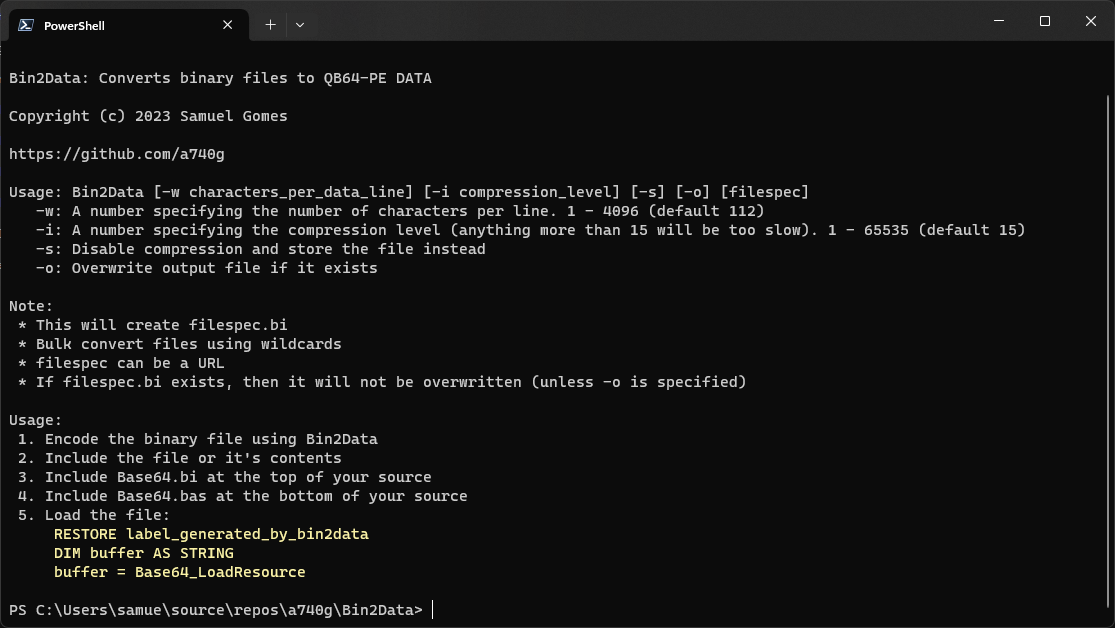
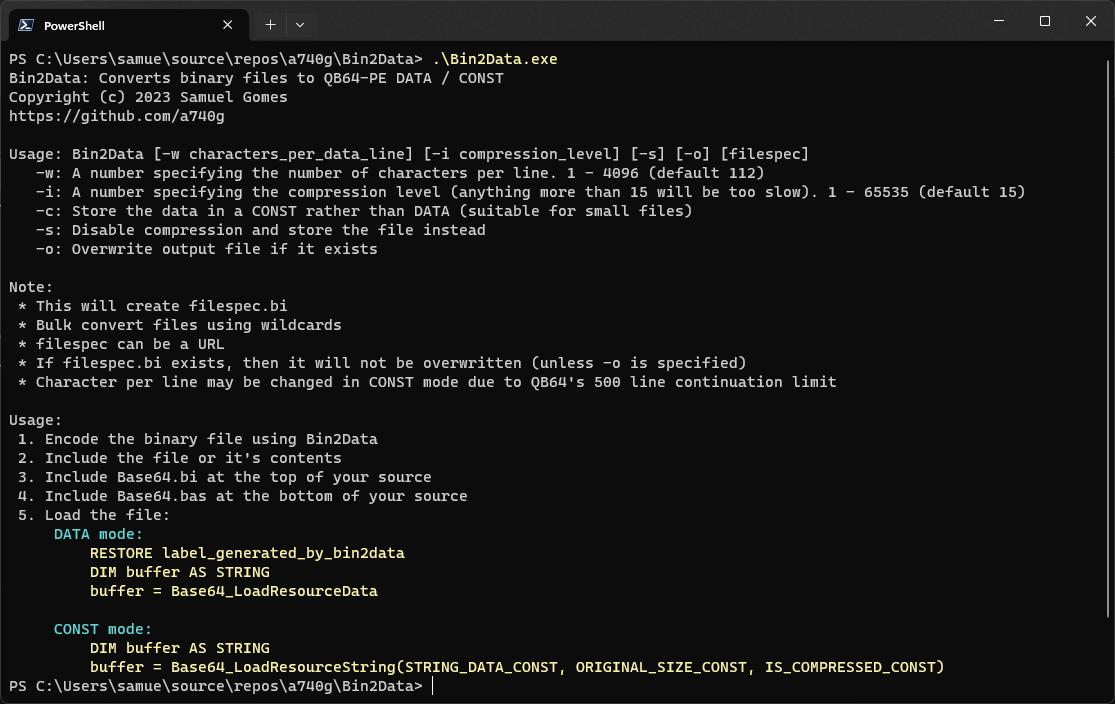
Add support for generating CONST data

Changed region(s): [[0.0, 0.0303, 1.0, 0.9984], [0.7623, 0.242, 0.8843, 0.3025], [0.7623, 0.3631, 0.9148, 0.3933]]

diff --git a/README.md b/README.md
@@ -34,7 +34,7 @@ Assuming the a file has been encoded using Bin2Data, here's an example of how yo
 RESTORE data_my_music_mp3_8192
 
 ' This loads the encoded & compressed data from the DATA statements after the label above
-DIM buffer AS STRING: buffer = Base64_LoadResource 
+DIM buffer AS STRING: buffer = Base64_LoadResourceData 
 
 ' Now do something with buffer
 ...
@@ -58,7 +58,8 @@ DATA ...
 ```vb
 FUNCTION Base64_Encode$ (s AS STRING)
 FUNCTION Base64_Decode$ (s AS STRING)
-FUNCTION Base64_LoadResource$
+FUNCTION Base64_LoadResourceString$ (src AS STRING, ogSize AS _UNSIGNED LONG, isComp AS _BYTE)
+FUNCTION Base64_LoadResourceData$
 ```
 
 ## NOTES
